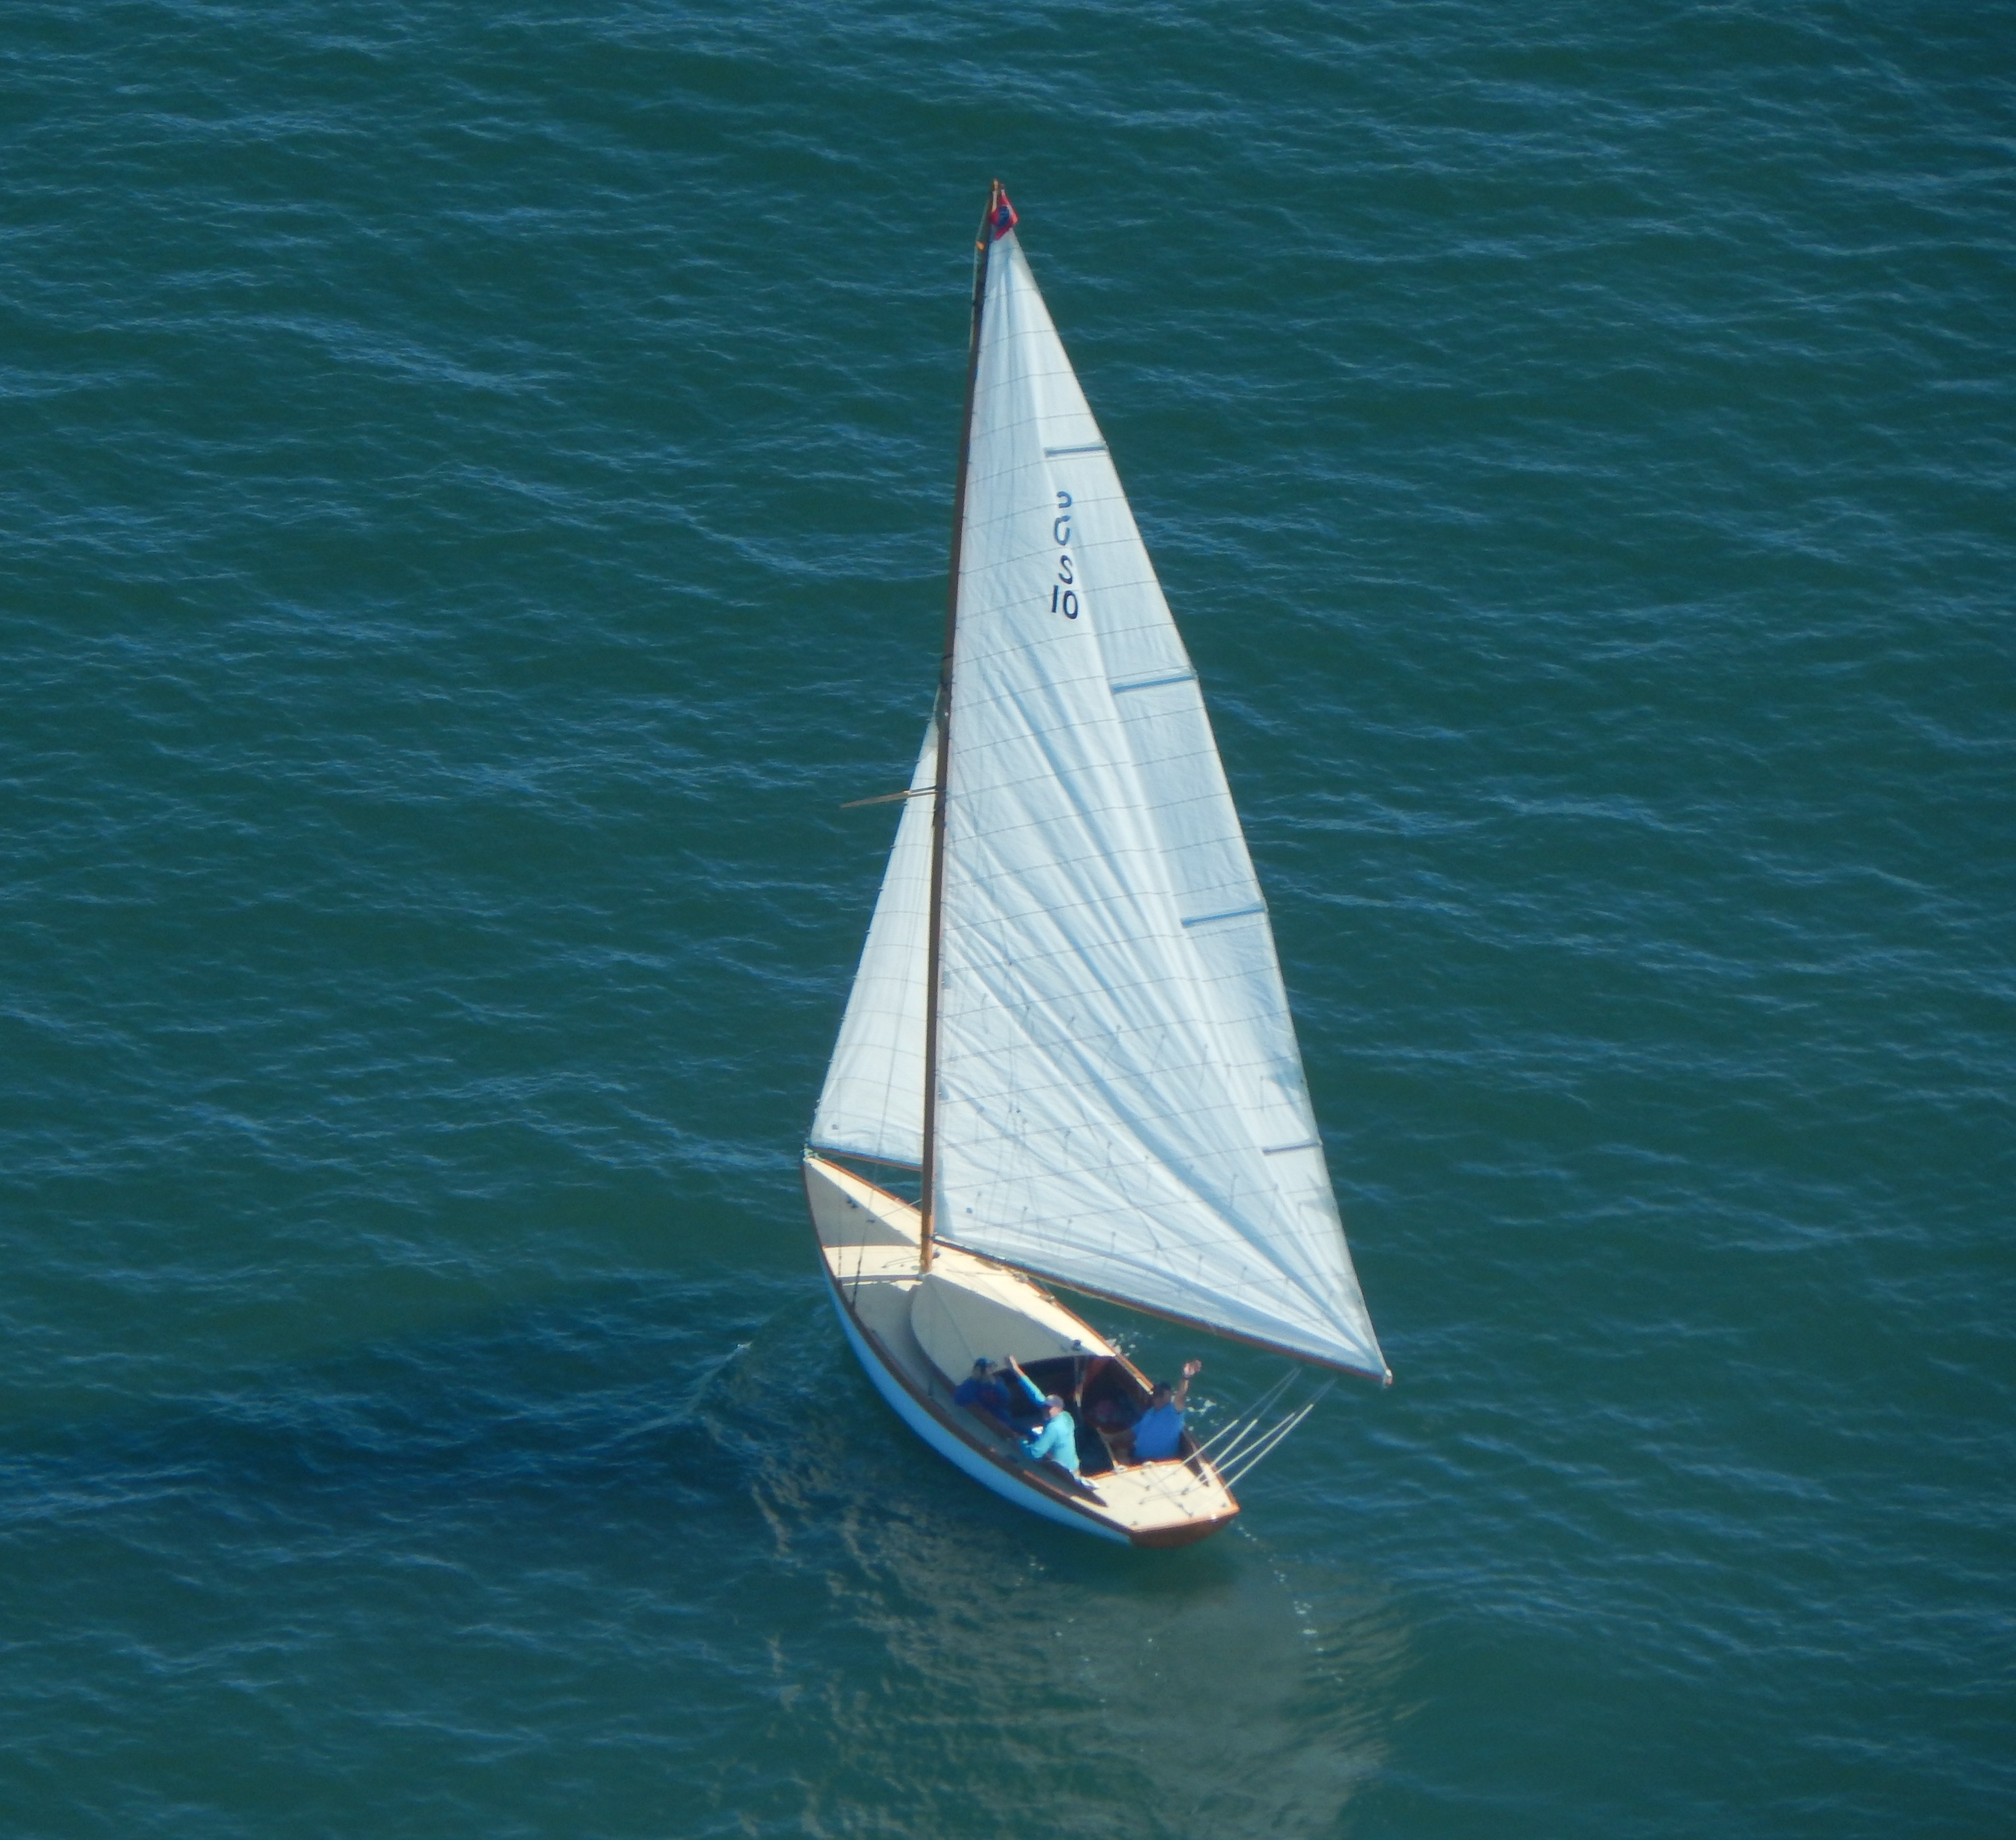
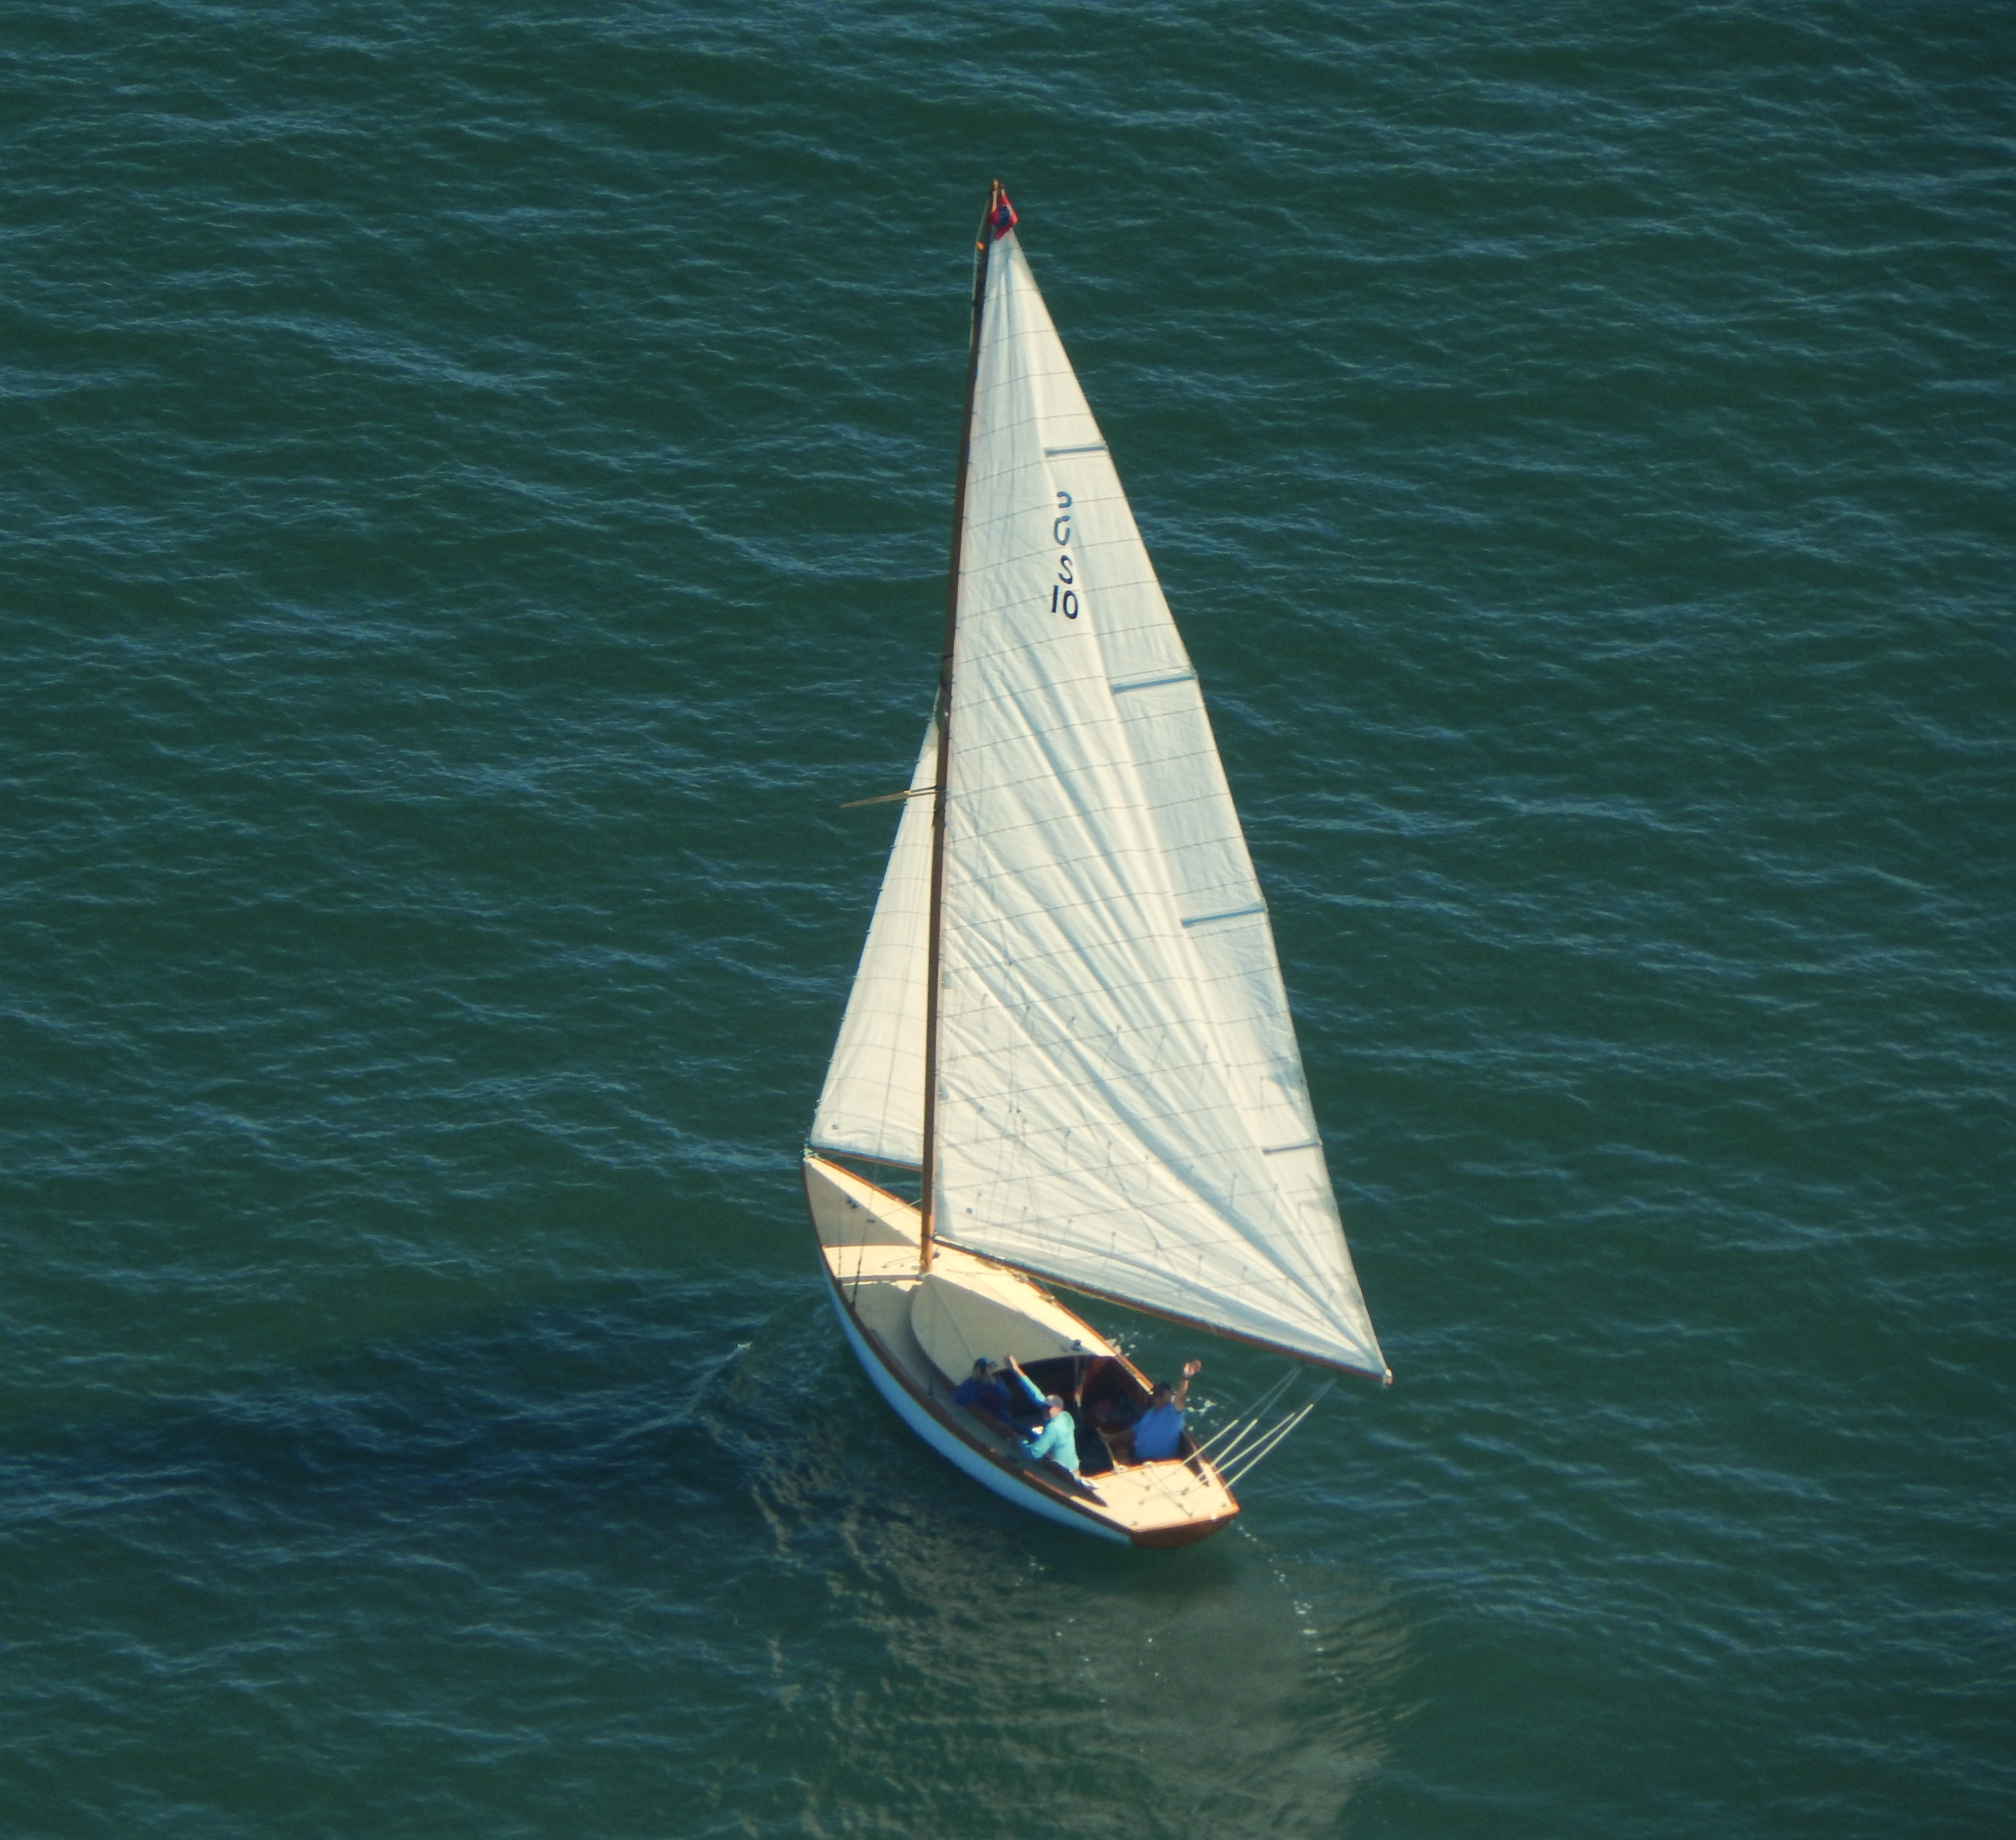
ds-web: Updated PJYC images

Changed region(s): [[0.4052, 0.1562, 0.6857, 0.75], [0.5298, 0.7812, 0.561, 0.8125], [0.4987, 0.75, 0.5298, 0.7812]]

diff --git a/index.html b/index.html
@@ -28,28 +28,28 @@
             
             <div class="image-grid">
                 <div class="grid-item">
-                    <img src="assets/DJI_0029.JPG" alt="Port Jefferson Yacht Club Clubhouse">
-                    <div class="overlay">Facility Showcase</div>
+                    <img src="assets/DJI_0029.jpg" alt="Port Jefferson Yacht Club Clubhouse">
+                    <div class="overlay">Clubhouse Showcase</div>
                 </div>
                 <div class="grid-item">
-                    <img src="assets/DJI_0004.JPG" alt="Top-down view of marina docks">
-                    <div class="overlay">Orthomosaic Mapping</div>
+                    <img src="assets/DJI_0004.jpg" alt="Top-down view of marina docks">
+                    <div class="overlay">Nadir Survey</div>
                 </div>
                 <div class="grid-item">
-                    <img src="assets/ClaraJ1.JPG" alt="Sailboat underway">
+                    <img src="assets/ClaraJ1.jpg" alt="Sailboat underway">
                     <div class="overlay">Marine Tracking</div>
                 </div>
                 <div class="grid-item">
-                    <img src="assets/DJI_0007.JPG" alt="Marina overview">
-                    <div class="overlay">Site Overviews</div>
+                    <img src="assets/DJI_0007.jpg" alt="Marina overview">
+                    <div class="overlay">Oblique Overview</div>
                 </div>
                 <div class="grid-item">
-                    <img src="assets/DJI_0027.JPG" alt="PJYC building on the shore">
-                    <div class="overlay">Architectural Context</div>
+                    <img src="assets/DJI_0027.jpg" alt="PJYC building on the shore">
+                    <div class="overlay">Facility Showcase</div>
                 </div>
                 <div class="grid-item">
-                    <img src="assets/DJI_0024.JPG" alt="Moored sailboat detail">
-                    <div class="overlay">Action Detail</div>
+                    <img src="assets/DJI_0024.jpg" alt="Moored sailboat detail">
+                    <div class="overlay">Vessel Image</div>
                 </div>
             </div>
         </div>